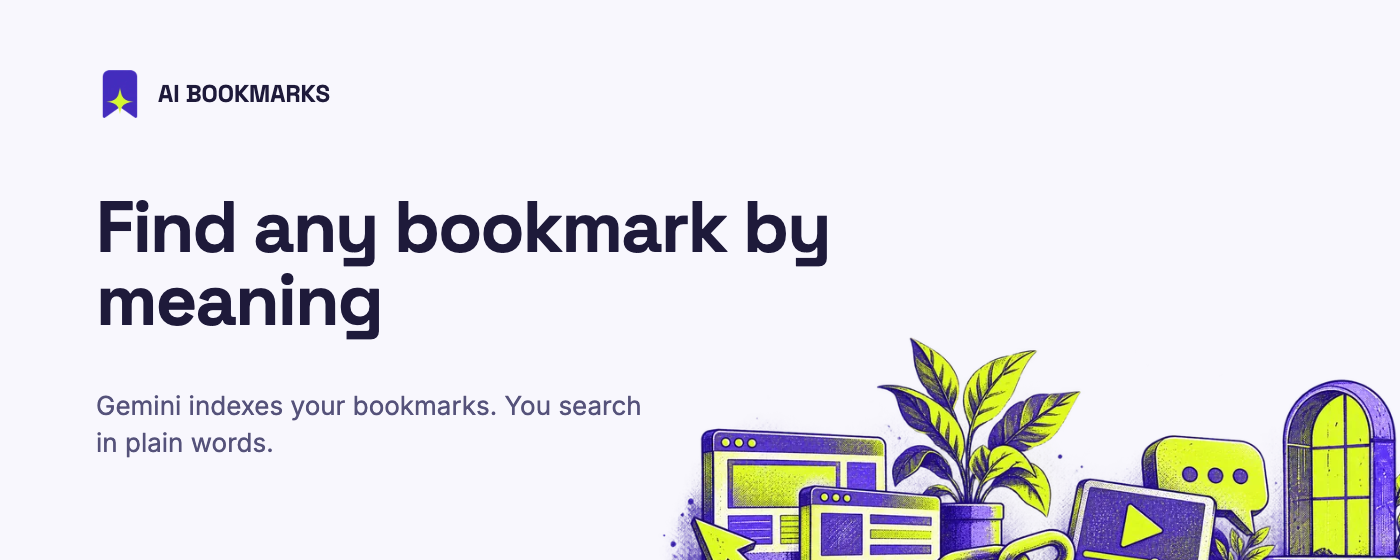
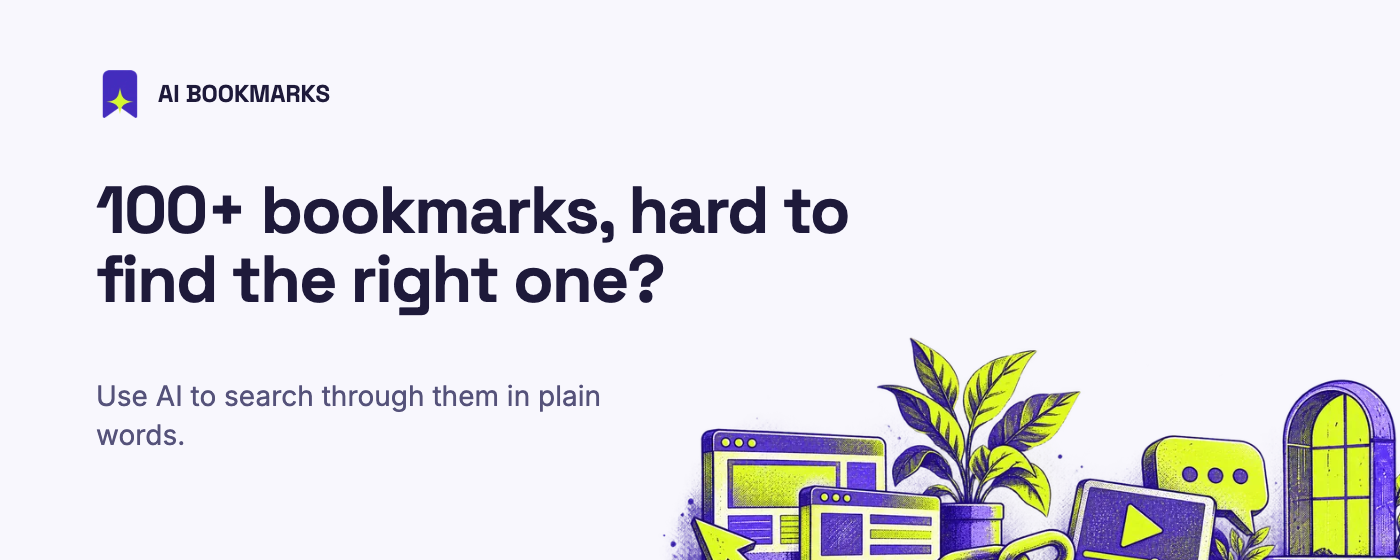
Tagline: lead with the problem (100+ bookmarks, hard to find) and AI search; new promo images

Changed region(s): [[0.0614, 0.3339, 0.6143, 0.6071], [0.0614, 0.6982, 0.4607, 0.8196]]

diff --git a/CHROME_WEB_STORE.md b/CHROME_WEB_STORE.md
@@ -49,12 +49,12 @@ AI Bookmarks
 
 ### Summary (132 characters or fewer)
 ```
-Find any bookmark by meaning. Gemini indexes your bookmarks so you can search in plain words.
+Too many bookmarks to find the right one? Use AI to search through them in plain words.
 ```
 
 ### Description
 ```
-Find a saved page by what it is about. AI Bookmarks shows the bookmarks that answer your question.
+100+ bookmarks are hard to search by hand. AI Bookmarks lets AI search through them for you.
 
 HOW IT WORKS
 • Add a free Gemini key from Google AI Studio.

diff --git a/README.md b/README.md
@@ -1,6 +1,6 @@
 # AI Bookmarks
 
-Find any bookmark by its meaning. AI Bookmarks is a browser extension that uses Gemini to index the pages you save. You type a plain question. The extension shows the bookmarks that answer it.
+Too many bookmarks to find the one you need? AI Bookmarks uses Gemini to index them, so you can search through them in plain words.
 
 It works in Chrome and in other Chromium browsers, for example Brave. It needs version 114 or later.
 
